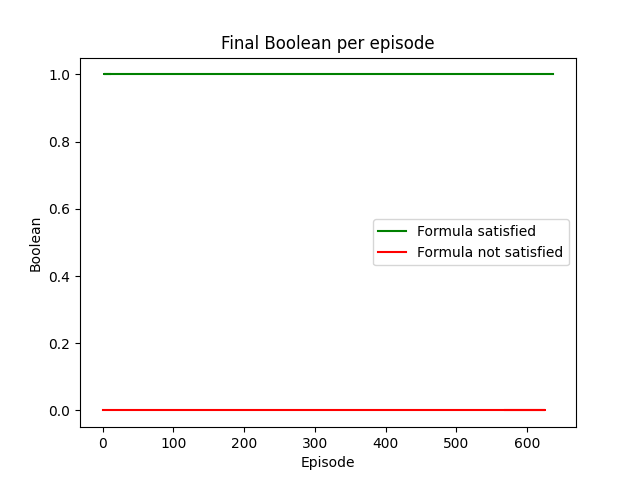
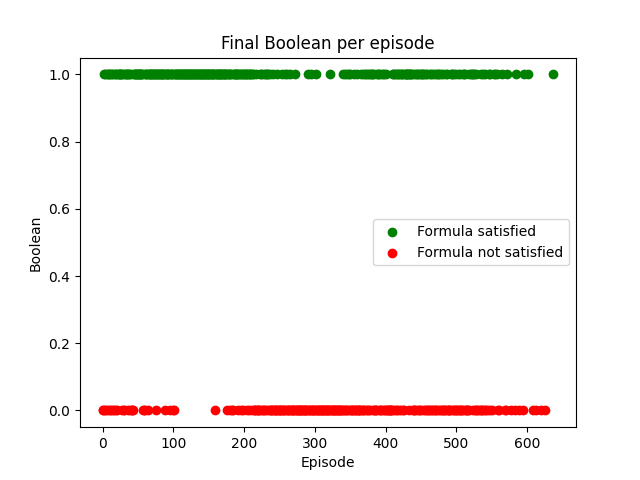
made some coorections

Changed region(s): [[0.1562, 0.125, 0.875, 0.1875], [0.1562, 0.8438, 0.875, 0.875], [0.5938, 0.4688, 0.625, 0.5312]]

diff --git a/src/utils/plotting_utils.py b/src/utils/plotting_utils.py
@@ -28,16 +28,26 @@ def plot_final_train_values(logs_path,plots_path,rob_or_bool):
     dataframe['Total_Episode']=dataframe['Episode']*num_of_envs+dataframe['Environment']
     values=dataframe[column]
 
-    positive_values=dataframe[values>0]
-    negative_values=dataframe[values<=0]
+    """
 
-    plt.plot(positive_values['Total_Episode'],positive_values[column],color='green',label="Formula satisfied")
-    plt.plot(negative_values['Total_Episode'],negative_values[column],color='red',label="Formula not satisfied")
+    for i in range(len(values) - 1):
+        x_values = dataframe['Total_Episode'].iloc[i:i+2]
+        y_values = values.iloc[i:i+2]
+        
+        # Color red if both values are <= 0, otherwise red
+        color = 'red' if all(y <=0 for y in y_values) else 'green'
+        plt.plot(x_values, y_values, color=color)
+    """
+
+    #plt.plot(dataframe['Total_Episode'],values)
+    plt.scatter(dataframe['Total_Episode'][values > 0], values[values > 0], color='green', label="Formula satisfied")
+    plt.scatter(dataframe['Total_Episode'][values <= 0], values[values <= 0], color='red', label="Formula not satisfied")
+
+
     plt.xlabel("Episode")
     plt.ylabel(column)
-    plt.legend()
     plt.title(f"Final {column} per episode")
-
+    plt.legend()
     plt.savefig(path)
     plt.close()
 
@@ -45,18 +55,27 @@ def plot_final_train_values(logs_path,plots_path,rob_or_bool):
 def plot_final_test_values(logs_path,plots_path,rob_or_bool):
         path=os.path.join(plots_path,f"final_{rob_or_bool}.png")
         column=rob_or_bool.capitalize()
-        df=pd.read_csv(os.path.join(logs_path,f"final_{rob_or_bool}.csv"))
+        dataframe=pd.read_csv(os.path.join(logs_path,f"final_{rob_or_bool}.csv"))
 
-        values=df[column]
+        values=dataframe[column]
 
-        positive_values=df[values>0]
-        negative_values=df[values<=0]
 
-        plt.plot(positive_values['Run'],positive_values[column],color='green',label="Formula satisfied")
-        plt.plot(negative_values['Run'],negative_values[column],color='red',label="Formula not satisfied")
+        """
+        for i in range(len(values)-1):
+            x_values=dataframe['Run'].iloc[i:i+2]
+            y_values = values.iloc[i:i+2]
+        
+            # Color red if both values are <= 0, otherwise red
+            color = 'red' if all(y <=0 for y in y_values) else 'green'
+            plt.plot(x_values, y_values, color=color)
+        """
+
+        plt.scatter(dataframe['Run'][values > 0], values[values > 0], color='green', label="Formula satisfied")
+        plt.scatter(dataframe['Run'][values <= 0], values[values <= 0], color='red', label="Formula not satisfied")
+
+
         plt.xlabel("Run")
         plt.ylabel(column)
-        plt.legend()
         plt.title(f"Final {column} per run")
 
         plt.savefig(path)
@@ -65,7 +84,7 @@ def plot_final_test_values(logs_path,plots_path,rob_or_bool):
 
 def plot_test_values(dataframe,plots_path,column,run):
 
-    plt.plot(dataframe[dataframe['Run']==run]['Step'],dataframe[column])
+    plt.plot(dataframe[dataframe['Run']==run]['Step'],dataframe[dataframe['Run']==run][column])
     plt.xlabel('Step')
     plt.ylabel(column)
     plt.title(f"{column} per Step at run {run}")

diff --git a/src/classes/my_reacher_env.py b/src/classes/my_reacher_env.py
@@ -119,12 +119,13 @@ class MyReacherEnv(gym.Env):
         terminated=False
         truncated = False
 
+        goal_to_reach=self.goal_to_reach
         distances_from_goals=self.distances_from_goals()
         signals=self.goal_sphere_radius-distances_from_goals
         for i in range(self.number_of_formulas):
             self.stl_evaluators[i].append_signals(signals)
         
-        reward=self.stl_formula_evaluators[self.goal_to_reach](self.start_computing_robustness_from)
+        reward=self.stl_formula_evaluators[goal_to_reach](self.start_computing_robustness_from)
 
         if reward>0:
             if self.goal_to_reach<self.num_of_goals-1:
@@ -135,7 +136,7 @@ class MyReacherEnv(gym.Env):
         elif self.steps>self.max_steps:
             truncated=True
         
-        info={'episode_number':self.episodes,'step':self.steps,'goal_to_reach':self.goal_to_reach}            
+        info={'episode_number':self.episodes,'step':self.steps,'goal_to_reach':goal_to_reach}            
         
         if terminated or truncated:
             final_robustness=self.stl_formula_evaluators[-1](0)
